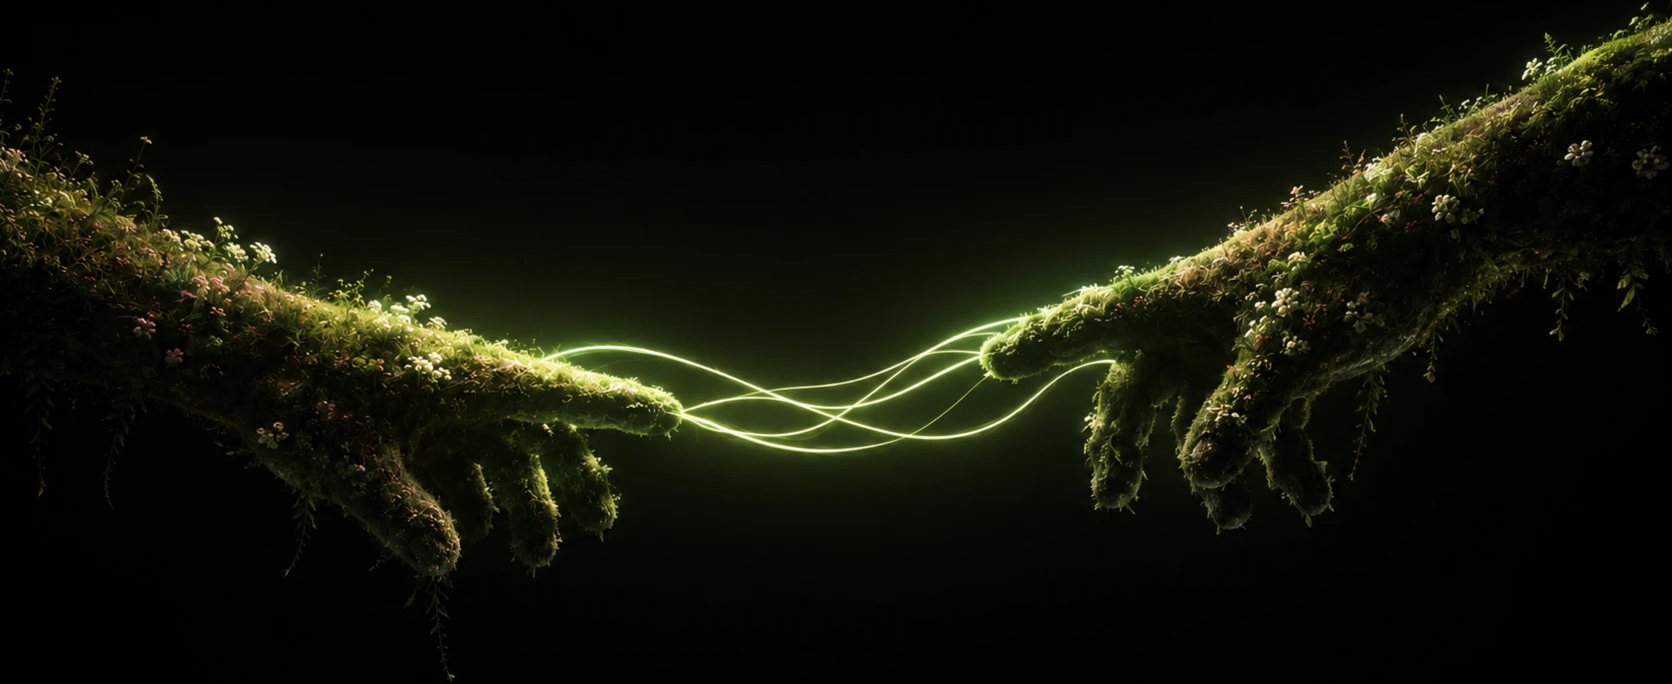
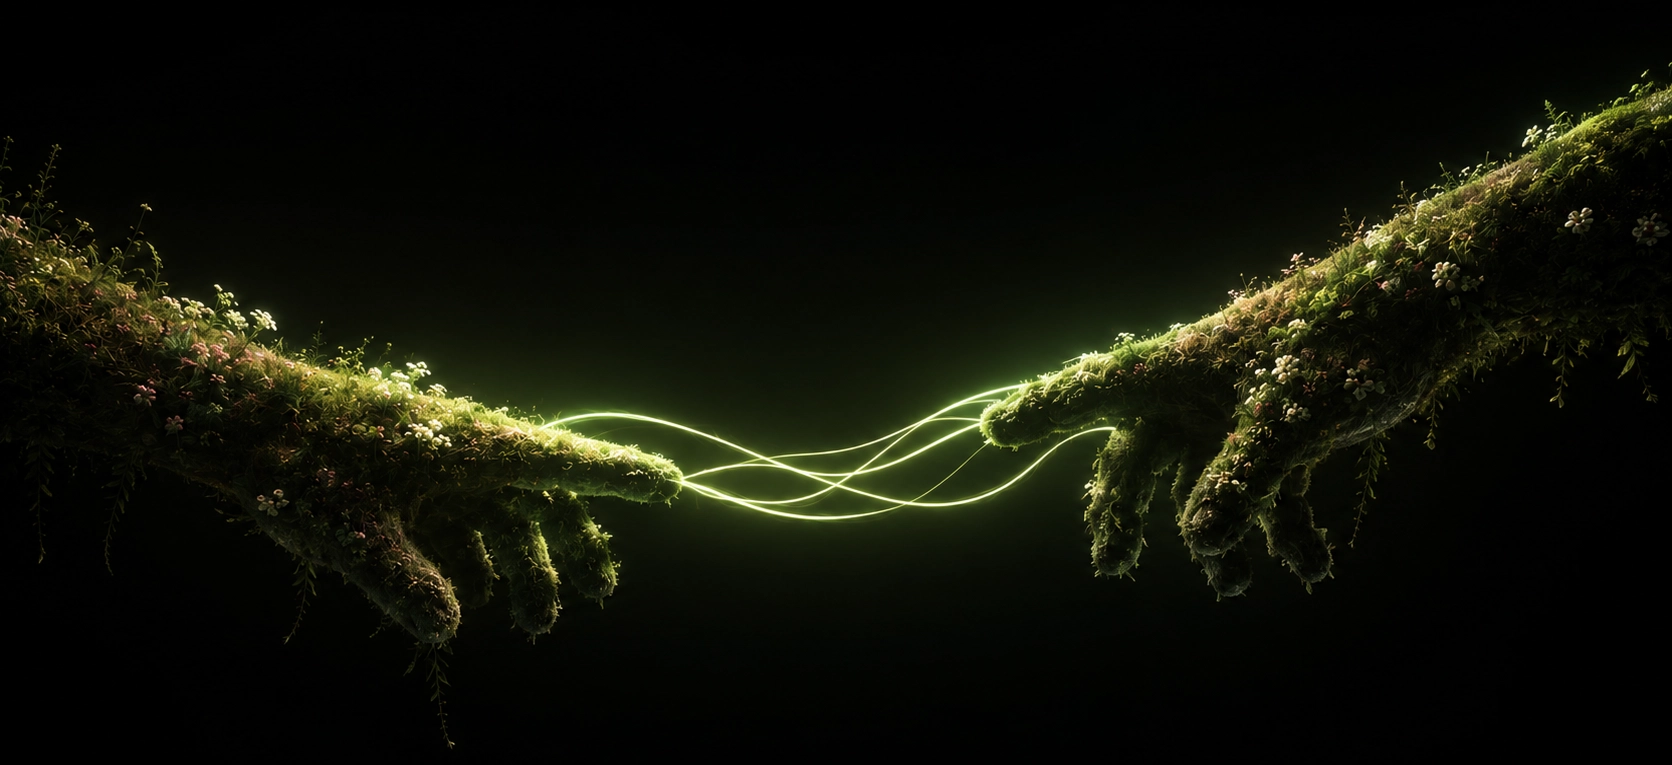
feat: add WebP images and improve layout

Changed region(s): [[0.0, 0.0, 1.0, 0.8289], [0.933, 0.2763, 0.9952, 0.307], [0.1555, 0.7061, 0.1866, 0.7368]]

diff --git a/components/common/Hero/HeroBackground.tsx b/components/common/Hero/HeroBackground.tsx
@@ -2,20 +2,63 @@ import Image from "next/image"
 
 export function HeroBackground({ image_url }: { image_url: string }) {
   return (
-    <>
-      <div className="absolute inset-x-0 top-10 h-[45%] md:inset-0 md:h-auto">
-        <Image
-          src={image_url}
-          alt="HeroImage"
-          fill
-          priority
-          className="object-cover object-[80%_center] md:object-center"
-        />
+    <div className="relative w-full overflow-hidden">
+      {/* Desktop */}
+      <div className="hidden lg:block">
+        <div className="mx-auto w-full max-w-[1920px]">
+          <Image
+            src={image_url}
+            alt="HeroImage"
+            width={1920}
+            height={600}
+            priority
+            className="block h-auto w-full"
+          />
+        </div>
       </div>
 
-      <div className="absolute inset-0 bg-gradient-to-r from-black via-black/35 to-black/10" />
-      <div className="absolute inset-0 bg-gradient-to-t from-black via-black/10 to-transparent" />
-      <div className="absolute inset-0 bg-gradient-to-b from-black/60 via-transparent to-black/50" />
-    </>
+      {/* Tablet */}
+      <div className="hidden md:block lg:hidden">
+        <div className="relative w-full overflow-hidden">
+          <Image
+            src={image_url}
+            alt="HeroImage"
+            width={1920}
+            height={600}
+            priority
+            className="
+              block
+              h-auto
+              w-[1100px]
+              max-w-none
+              translate-x-[-50%]
+              ml-[50%]
+            "
+          />
+        </div>
+      </div>
+
+      {/* Mobile — НЕ ТРОГАЕМ */}
+      <div className="block md:hidden">
+        <div className="relative flex h-[420px] w-full items-center justify-center overflow-hidden">
+          <Image
+            src={image_url}
+            alt="HeroImage"
+            width={1920}
+            height={600}
+            priority
+            className="
+              h-auto
+              w-[800px]
+              max-w-none
+              -translate-x-[100px]
+            "
+          />
+        </div>
+      </div>
+
+      <div className="pointer-events-none absolute inset-0 bg-gradient-to-r from-black via-black/35 to-black/10" />
+      <div className="pointer-events-none absolute inset-0 bg-gradient-to-t from-black via-black/10 to-black/50" />
+    </div>
   )
 }

diff --git a/components/common/footer/FooterSection.tsx b/components/common/footer/FooterSection.tsx
@@ -20,17 +20,16 @@ export function FooterSection({
   const dict = useDict()
   return (
     <footer className="relative">
-      <div className="relative w-full h-[150px] md:h-[250px] lg:h-[320px] overflow-hidden">
-        <Image
-          src={FooterImage}
-          alt="Footer image"
-          fill
-          sizes="(max-width: 768px) 100vw, 100vw"
-          className="object-cover object-center"
-        />
-
-        <div className="absolute inset-0 bg-gradient-to-b from-black via-transparent to-black" />
-        <div className="absolute inset-0 bg-gradient-to-r from-black/50 via-transparent to-black/50" />
+      <div className="relative w-full overflow-hidden bg-black">
+        <div className="relative mx-auto aspect-[1920/600] w-full max-w-[1600px]">
+          <Image
+            src={FooterImage}
+            alt="Footer image"
+            priority
+            className="h-auto w-full"
+          />
+          <div className="pointer-events-none absolute inset-0 bg-gradient-to-r from-black via-transparent to-black" />
+        </div>
       </div>
 
       <PageContainer className="relative z-10">

diff --git a/constants/solution/solution.data.ts b/constants/solution/solution.data.ts
@@ -29,11 +29,11 @@ import BotPreview from "@/public/images/solutions/previews/bots.webp"
 import AutomationPreview from "@/public/images/solutions/previews/automation.webp"
 import CustomPreview from "@/public/images/solutions/previews/custom.webp"
 
-import WebsiteImage from "@/public/images/solutions/hero/sites.png"
-import ServiceImage from "@/public/images/solutions/hero/services.png"
-import BotImage from "@/public/images/solutions/hero/bots.png"
-import AutomationImage from "@/public/images/solutions/hero/automation.png"
-import CustomImage from "@/public/images/solutions/hero/custom.png"
+import WebsiteImage from "@/public/images/solutions/hero/sites.webp"
+import ServiceImage from "@/public/images/solutions/hero/services.webp"
+import BotImage from "@/public/images/solutions/hero/bots.webp"
+import AutomationImage from "@/public/images/solutions/hero/automation.webp"
+import CustomImage from "@/public/images/solutions/hero/custom.webp"
 
 export const SOLUTION_TYPES = {
   WEBSITE: "website",

diff --git a/components/landing/hands/HandsSection.tsx b/components/landing/hands/HandsSection.tsx
@@ -6,15 +6,15 @@ import handsImage from "@/public/images/hands.webp"
 export function HandsSection() {
   return (
     <section className="relative w-full overflow-hidden bg-black">
-      <div className="relative w-full">
+      <div className="relative mx-auto aspect-[1920/600] w-full max-w-[1600px]">
         <Image
           src={handsImage}
-          alt=""
+          alt="HandsImage"
           className="object-cover w-full"
           priority
         />
-        <div className="absolute inset-0 bg-gradient-to-b from-black via-transparent to-black" />
-        <div className="absolute inset-0 bg-gradient-to-r from-black/70 via-transparent to-black/70" />
+        <div className="absolute inset-0 bg-gradient-to-b from-black/30 via-transparent to-black/30" />
+        <div className="pointer-events-none absolute inset-0 bg-gradient-to-r from-black via-transparent to-black" />
       </div>
     </section>
   )

diff --git a/components/solution/hero/HeroSection.tsx b/components/solution/hero/HeroSection.tsx
@@ -9,9 +9,12 @@ import { getMinPackagePrice } from "@/lib/utils/getMinPackagePrice"
 
 export function HeroSection({ solution }: { solution: Solution }) {
   return (
-    <SectionContainer className="min-h-screen flex flex-col justify-center">
+    <SectionContainer className="relative flex min-h-[100svh] flex-col justify-center min-[1920px]:min-h-[800px] min-[1920px]:h-[900px] min-[1920px]:max-h-[900px]">
+      <div className="absolute inset-x-0 top-0 z-0">
+        <HeroBackground image_url={solution.image} />
+      </div>
+
       <GridLines />
-      <HeroBackground image_url={solution.image} />
 
       <PageContainer>
         <div className="relative z-10 flex flex-col gap-8 pt-28 pb-0 min-[700px]:grid min-[700px]:grid-cols-2 min-[700px]:items-center min-[700px]:gap-8 lg:gap-12 lg:py-24 xl:gap-16 xl:py-28">

diff --git a/components/landing/hero/HeroSection.tsx b/components/landing/hero/HeroSection.tsx
@@ -13,14 +13,14 @@ export function HeroSection() {
   const dict = useDict()
 
   return (
-    <SectionContainer className="min-h-screen flex flex-col justify-center">
-      <div className="absolute inset-0 z-0">
+    <SectionContainer className="relative flex min-h-[100svh] flex-col justify-center min-[1920px]:min-h-[800px] min-[1920px]:h-[900px] min-[1920px]:max-h-[900px]">
+      <div className="absolute inset-x-0 top-0 z-0">
         <HeroBackground image_url={HeroImage.src} />
       </div>
       <GridLines />
 
       <PageContainer>
-        <div className="mt-50 lg:mt-0 lg:max-w-[65%]">
+        <div className="mt-50 lg:mt-24 lg:max-w-[65%]">
           <HeroMainHeadline
             title={dict.common.slogan}
             description={dict.hero.description}

diff --git a/components/common/Promo/PromoImage.tsx b/components/common/Promo/PromoImage.tsx
@@ -2,20 +2,7 @@ import Image from "next/image"
 
 export function PromoImage({ image }: { image: string }) {
   return (
-    <div
-      className="
-        relative
-        h-[280px]
-        w-full
-        overflow-hidden
-        rounded-3xl
-        border
-        border-white/15
-        sm:h-[320px]
-        md:h-[360px]
-        lg:h-full
-      "
-    >
+    <div className="relative h-[280px] w-full overflow-hidden rounded-3xl border border-white/15 sm:h-[320px] md:h-[360px] lg:h-full">
       <Image
         src={image}
         alt="PromoImage"

diff --git a/components/solution/feature/FeatureSection.tsx b/components/solution/feature/FeatureSection.tsx
@@ -16,7 +16,7 @@ export function FeatureSection({
   const hasOddItems = items.length % 2 !== 0
 
   return (
-    <SectionContainer>
+    <SectionContainer className="pt-0">
       <div
         id={NAVIGATION_SLUG.ABOUT_SOLUTION}
         className="grid items-start gap-10 lg:grid-cols-[minmax(0,1fr)_minmax(0,1.4fr)] lg:gap-16"

diff --git a/components/common/YandexMetrics.tsx b/components/common/YandexMetrics.tsx
@@ -26,7 +26,7 @@ export function YandexMetrics() {
           <img
             src="https://mc.yandex.ru/watch/110341240"
             style={{ position: "absolute", left: "-9999px" }}
-            alt=""
+            alt="YandexMetrika"
           />
         </div>
       </noscript>
